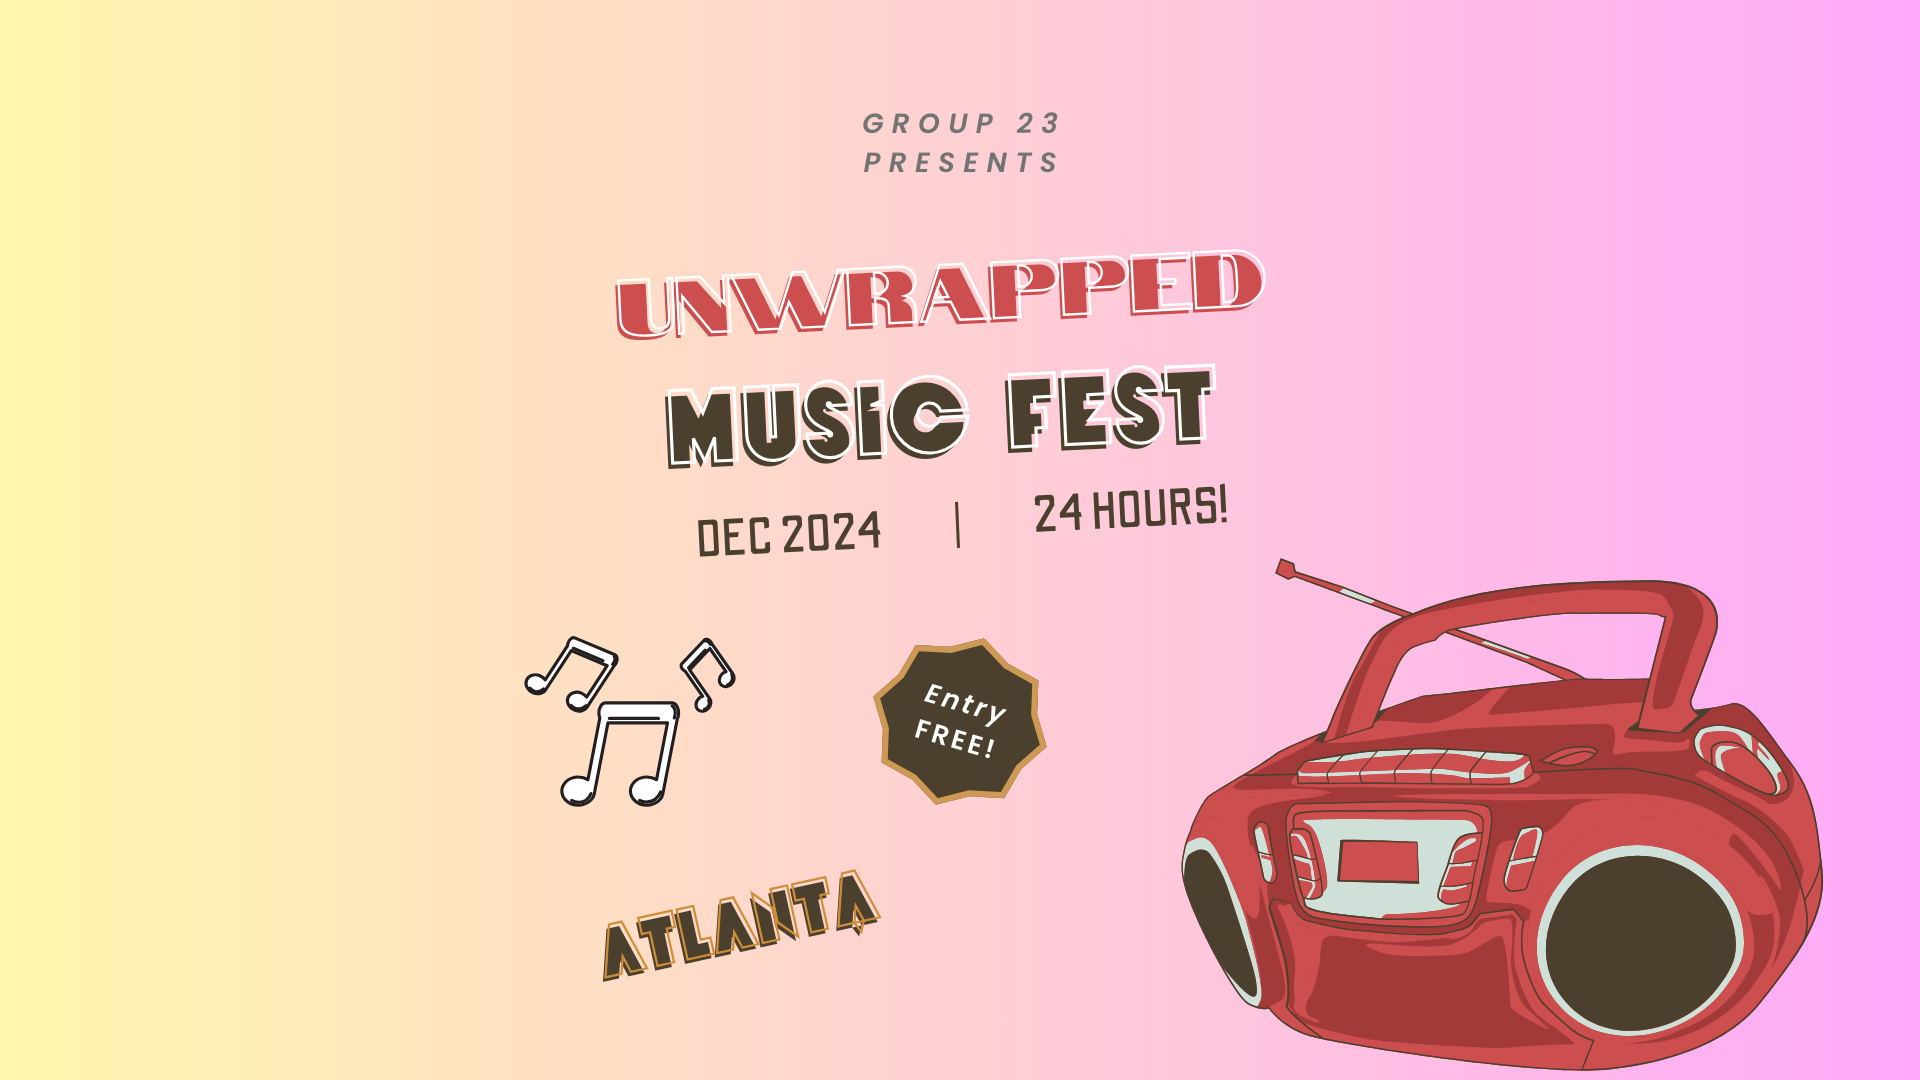
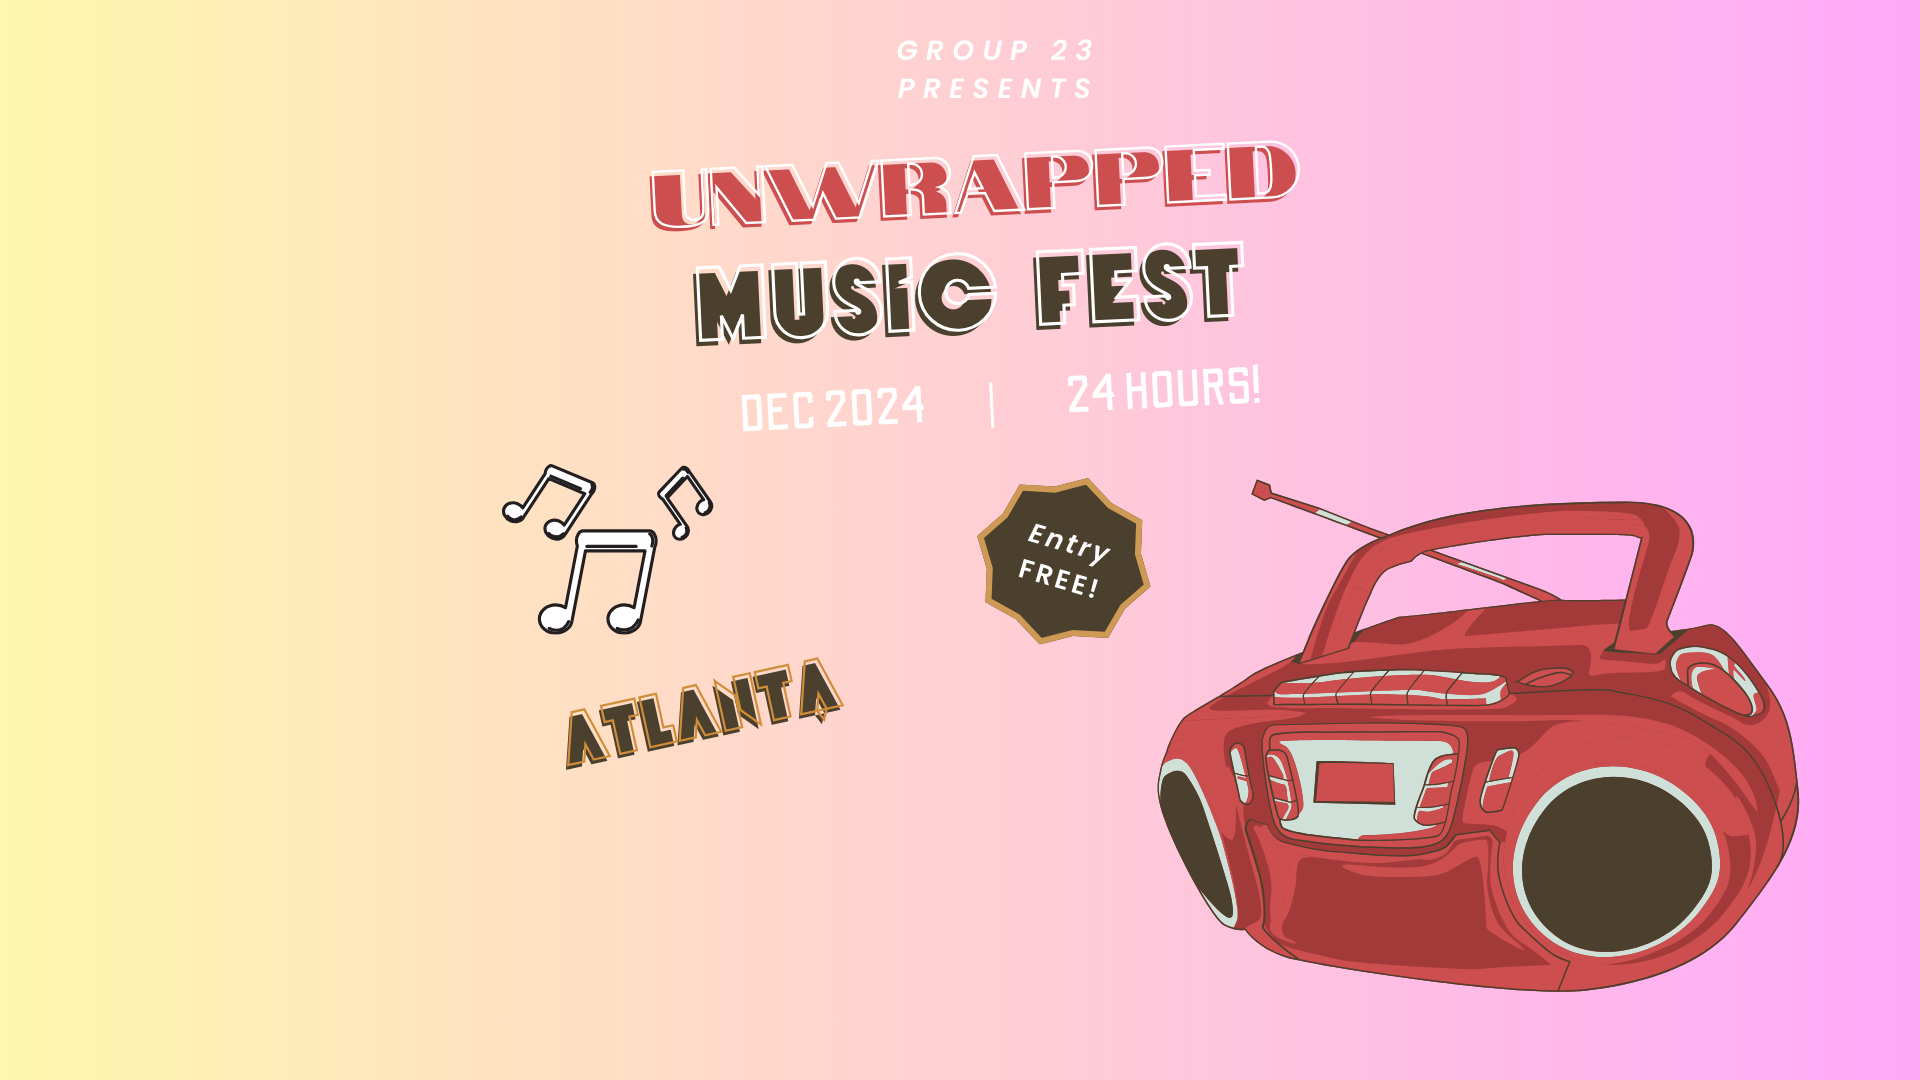
added dark mode for transition two

Changed region(s): [[0.25, 0.0306, 0.9688, 1.0], [0.3125, 0.7944, 0.4688, 0.9167]]

diff --git a/templates/christmas_TransitionTwo.html b/templates/christmas_TransitionTwo.html
@@ -58,9 +58,13 @@
         background-image: url("{% static 'transition_slide/transitionTwo.png' %}");
         background-repeat: no-repeat;
         background-size: cover;
-        background-position: center 170%;
+        background-position: center 20%;
         opacity: 0;
         animation: fadeIn 3s ease-in-out forwards;
+    }
+
+    body.dark-mode .container {
+        background-image: url("{% static 'transition_slide/transitionTwoDark.png' %}");
     }
 
     @keyframes fadeIn {

diff --git a/templates/halloween_TransitionTwo.html b/templates/halloween_TransitionTwo.html
@@ -58,9 +58,13 @@
         background-image: url("{% static 'transition_slide/transitionTwo.png' %}");
         background-repeat: no-repeat;
         background-size: cover;
-        background-position: center 170%;
+        background-position: center 20%;
         opacity: 0;
         animation: fadeIn 3s ease-in-out forwards;
+    }
+
+    body.dark-mode .container {
+        background-image: url("{% static 'transition_slide/transitionTwoDark.png' %}");
     }
 
     @keyframes fadeIn {

diff --git a/templates/transitionTwo.html b/templates/transitionTwo.html
@@ -20,9 +20,13 @@
         background-image: url("{% static 'transition_slide/transitionTwo.png' %}");
         background-repeat: no-repeat;
         background-size: cover;
-        background-position: center 170%;
+        background-position: center 20%;
         opacity: 0;
         animation: fadeIn 3s ease-in-out forwards;
+    }
+
+    body.dark-mode .container {
+        background-image: url("{% static 'transition_slide/transitionTwoDark.png' %}");
     }
 
     @keyframes fadeIn {
